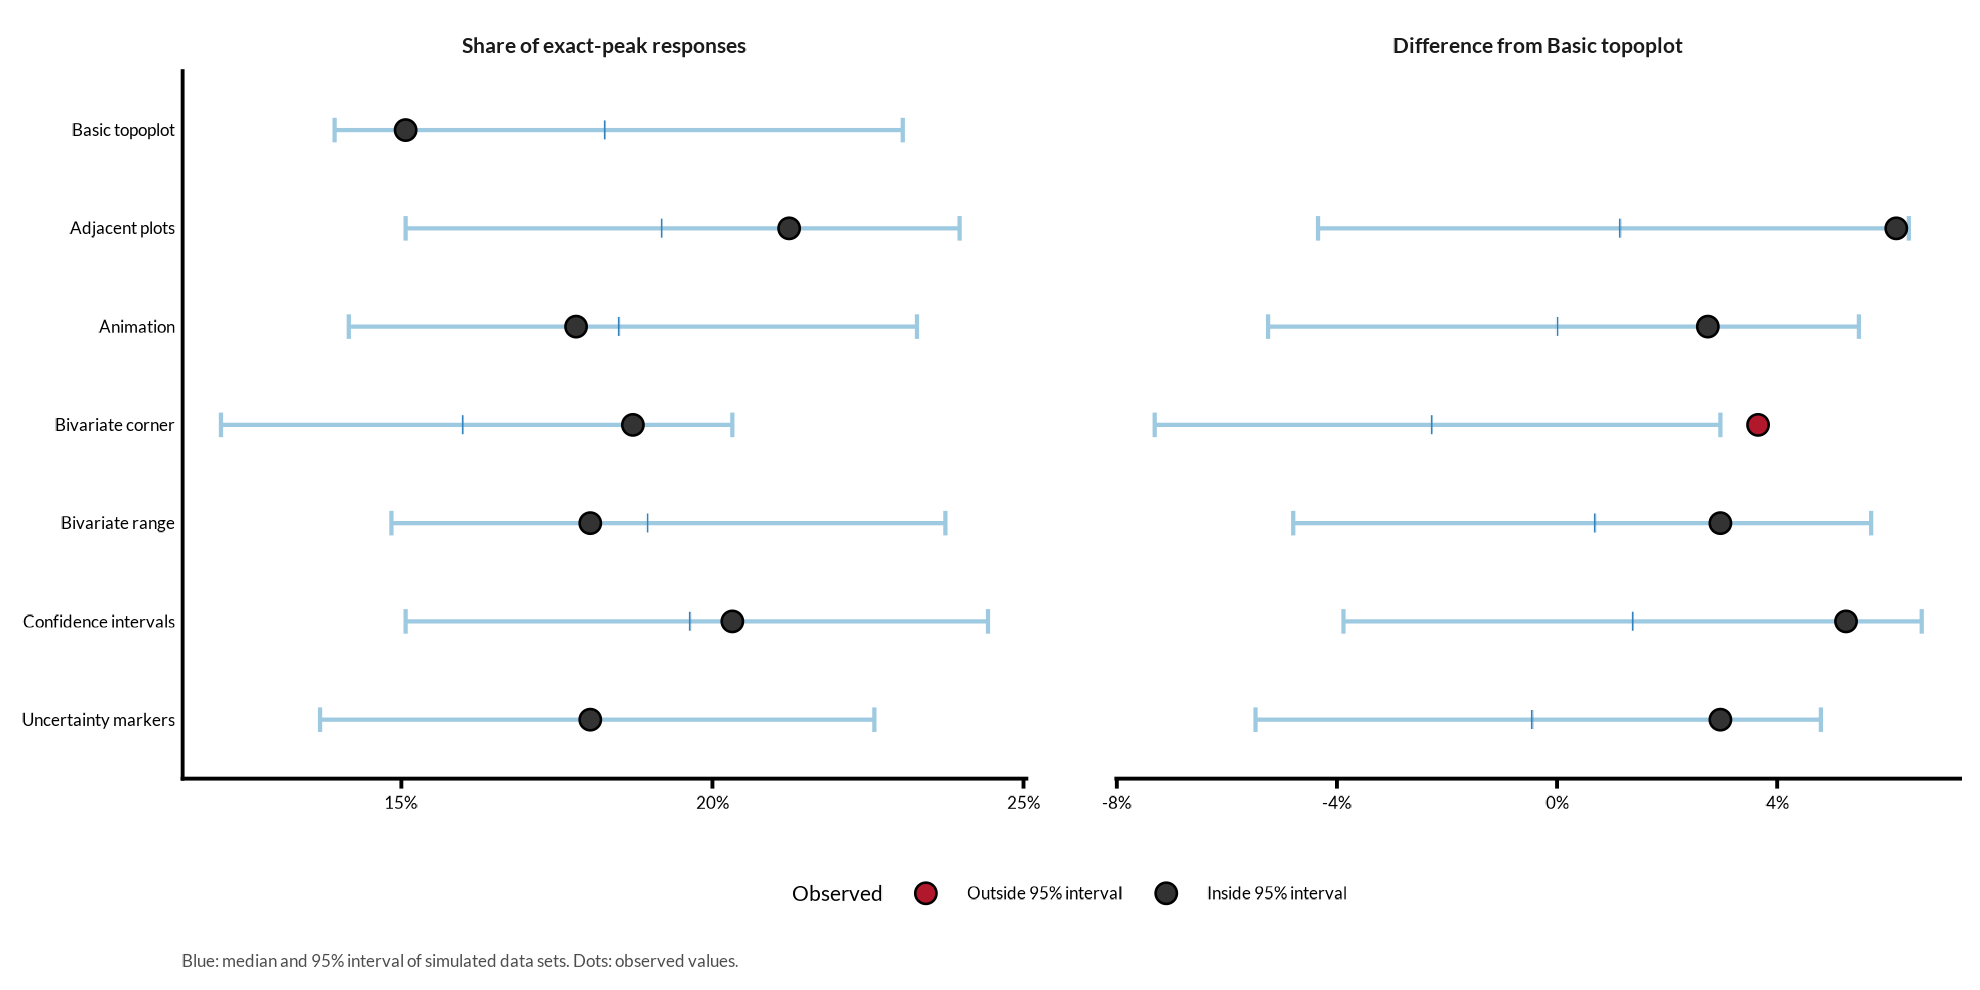
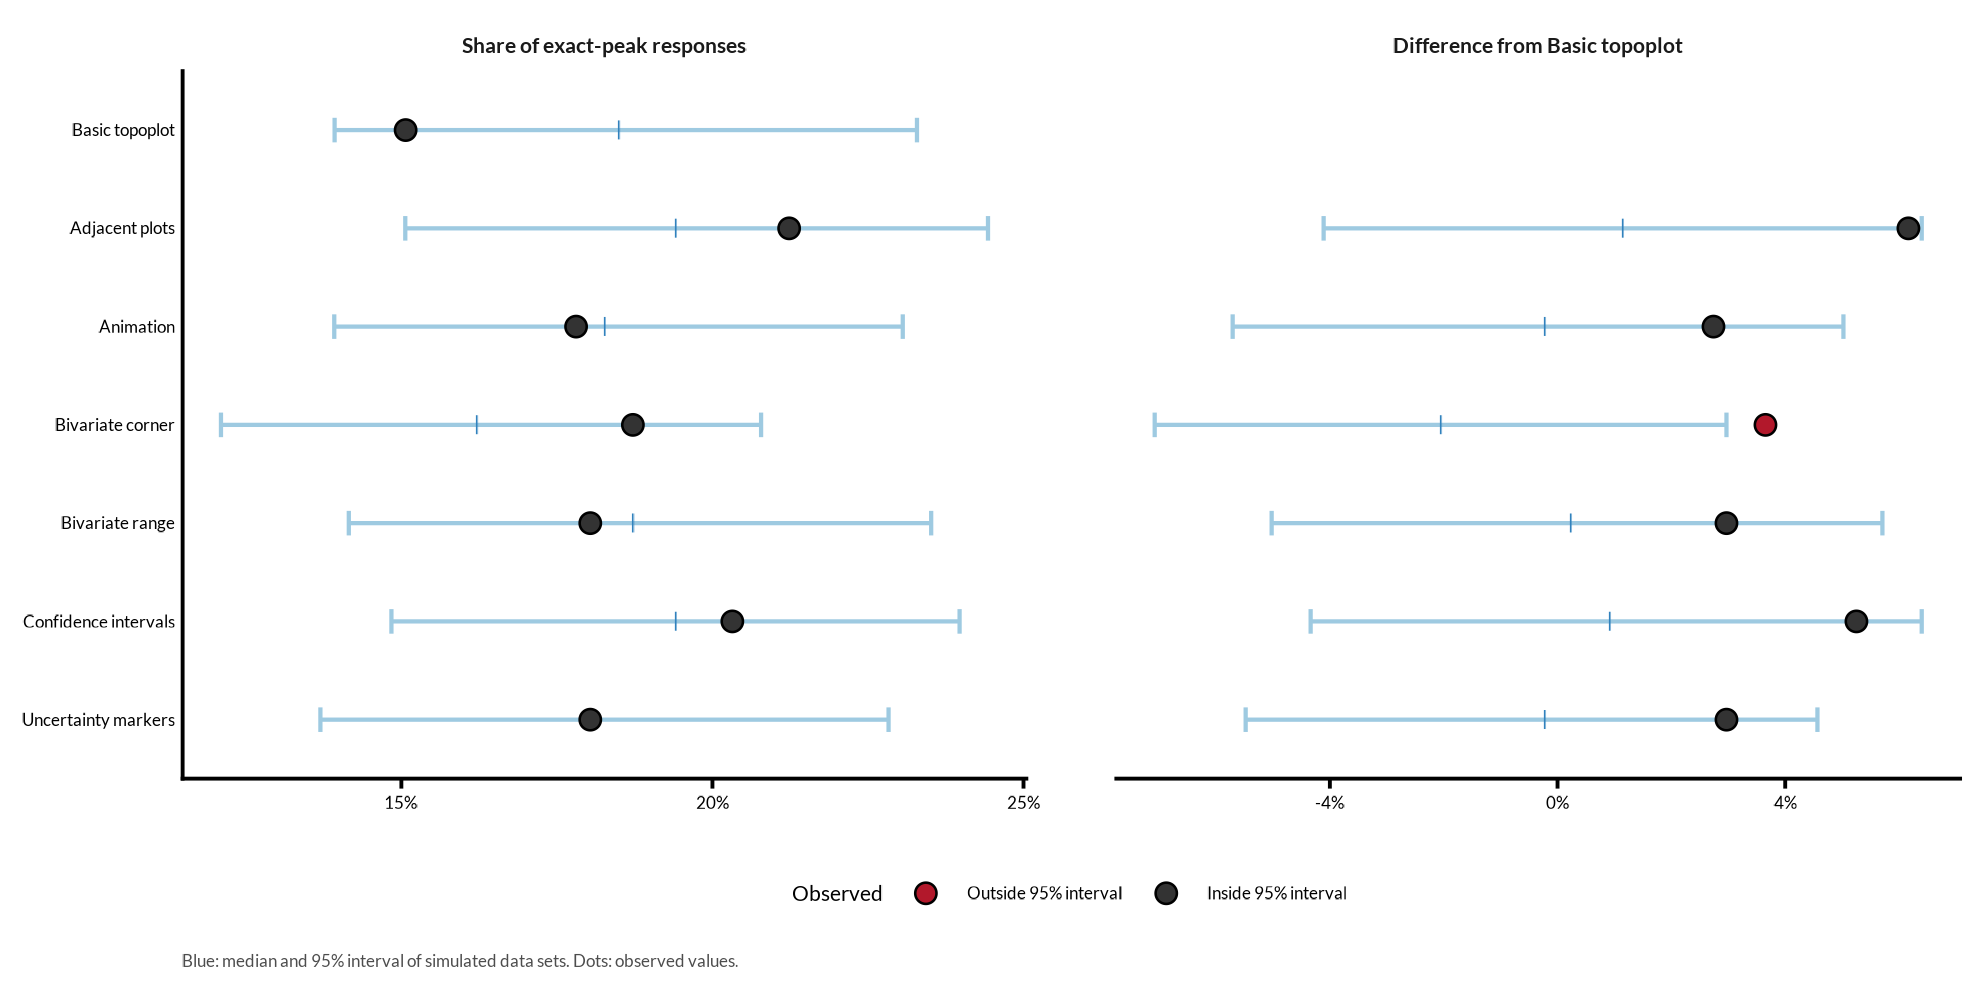
Task 2 models: add image-level intercept (1 | stimulus:vistype)
Each stimulus x visualization is a separate image (210 images, ~15 responses
each); without an image intercept those responses were treated as independent.
The term is added to the primary ordered-beta model, the two-part sensitivity
models and the hit / near-hit models. It is strongly supported (AIC 1178 -> 1107
for the primary model), point estimates barely change, and the overall
visualization test is no longer significant (chi2(6) = 8.0, p = .23).

Audit: U2 folded into A2 (Addressed); remaining: Task 1 analogue,
generalization statement, manuscript wording.

diff --git a/reports/addressed.md b/reports/addressed.md
@@ -22,8 +22,9 @@ subtitle: "Issues where work has been done but something remains"
 - Task 2 has a posterior predictive check of exact-peak (score = 1) responses.
 - Task 2 has a two-part sensitivity model: a logistic model for finding the strongest
   region and a beta model for the remaining trials.
-- These show that Adjacent plots and Confidence intervals increase exact-peak hits.
-  The ordered-beta contrast does not detect this.
+- These show that Adjacent plots increase exact-peak hits (p = .006 with the image
+  intercept); Confidence intervals do so only marginally (p = .046). The ordered-beta
+  contrast does not detect this.
 - The fitted Task 1 and Task 2 models are checked for convergence and a
   positive-definite Hessian.
 
@@ -45,9 +46,24 @@ subtitle: "Issues where work has been done but something remains"
 **Done.**
 
 - The primary model is
-  `score ~ vistype + pattern + position_c + (1 | ID) + (1 | stimulus)`, adjusting for
-  ERP pattern and presentation position, with crossed participant and stimulus
-  intercepts.
+  `score ~ vistype + pattern + position_c + (1 | ID) + (1 | stimulus) + (1 | stimulus:vistype)`,
+  adjusting for ERP pattern and presentation position, with crossed participant and
+  stimulus intercepts and an intercept for each of the 210 images (formerly U2). The
+  same structure is used in the two-part sensitivity model and in the hit / near-hit
+  models on the Hit or miss page.
+- Evidence for the image intercept (N = 146):
+
+  | Model | AIC without → with | Image SD | Overall visualization LRT, without → with |
+  |---|---|---|---|
+  | Score (ordered beta) | 1178 → 1107 | 0.27 | χ²(6) = 23.1, p = .0008 → χ²(6) = 8.0, p = .23 |
+  | Exact hit (logistic) | 2497 → 2448 | 0.82 | χ²(6) = 14.6, p = .023 → χ²(6) = 8.6, p = .20 |
+  | Hit or near hit (logistic) | 3347 → 3161 | 1.12 | χ²(6) = 19.9, p = .003 → χ²(6) = 9.0, p = .17 |
+
+  Point estimates barely move; standard errors grow 1.5–2.2×. Contrasts with Basic
+  that remain at p < .05 (unadjusted): exact hit, Adjacent plots (p = .006) and
+  Confidence intervals (p = .046); hit or near hit, Uncertainty markers (p = .029)
+  and Bivariate range (p = .032). The Bivariate corner score deficit does not
+  (p = .005 → .093); it is concentrated in three images (MMN_30, N170_16, N170_27).
 - The page checks that no responses are lost and that each stimulus maps to one
   pattern.
 - Participant-specific slopes were tested and their omission is explained on the page:
@@ -58,8 +74,11 @@ subtitle: "Issues where work has been done but something remains"
 
 **Remaining.**
 
-- The image-level intercept changes the inference ([U2](index.md#u2)).
+- Check the analogous term in Task 1 (target stimulus × visualization); Task 1
+  already has `(1 | wrong_image)`.
 - State that generalization to new stimuli rests on 30 sampled stimuli.
+- Manuscript: describe the visualization effects as weak overall; no omnibus test
+  is significant once image-level variation is modelled.
 
 ## A3. Feedback codes are linked by row position {#a3}
 

diff --git a/reports/index.md b/reports/index.md
@@ -6,16 +6,17 @@ subtitle: "Open issues in the analysis (N = 146), most severe first"
 ::: {.callout-warning}
 ## The analysis is not yet ready for manuscript interpretation
 
-U2–U5 change results or how they must be described. Fix them first, in this order:
+U3–U5 change results or how they must be described. Fix them first, in this order:
 
-1. Settle the Task 2 random-effects structure (U2).
-2. Correct the labels and timing of the rating items (U3, U4).
-3. Regenerate the remaining result sentences from the estimates (U5).
+1. Correct the labels and timing of the rating items (U3, U4).
+2. Regenerate the remaining result sentences from the estimates (U5).
+
+The Task 2 image-level intercept (formerly U2) is now in the models; see
+[A2](addressed.md#a2).
 :::
 
 | | Issue | Area |
 |--|------------------|----|
-| [High]{.badge .sev-high} | [U2. Task 2 ignores image-level variation](#u2) | Task 2 |
 | [High]{.badge .sev-high} | [U3. A303 measures likelihood of use, not helpfulness](#u3) | Ratings |
 | [High]{.badge .sev-high} | [U4. A301 was asked after Task 1 only](#u4) | Ratings |
 | [High]{.badge .sev-high} | [U5. Task 1 text overstates weak or contradicted effects](#u5) | Task 1 |
@@ -31,36 +32,6 @@ U2–U5 change results or how they must be described. Fix them first, in this or
 | [Low]{.badge .sev-low} | [U15. Stale hard-coded text and suspicious items](#u15) | Task 1, Task 2 |
 
 : {.findings-table}
-
-## U2. Task 2 ignores image-level variation {#u2}
-
-::: {.finding-meta .sev-high}
-**Severity:** High · **Area:** Task 2 detection-score model
-:::
-
-**Problem.** Each stimulus × visualization combination is a separate image (210
-images, about 14.6 responses each). The primary model has participant and stimulus
-intercepts but no image intercept, so responses to the same image are treated as
-independent.
-
-**Evidence.**
-
-| | Primary model | + `(1 \| stimulus:vistype)` |
-|---|---|---|
-| AIC | 1178.0 | 1106.9 |
-| Image-intercept SD | — | 0.27 (LRT χ²(1) = 73.1, p < 10⁻¹⁶) |
-| Overall visualization LRT | χ²(6) = 23.1, p = .0008 | χ²(6) = 8.0, p = .24 |
-| Bivariate corner vs Basic (logit) | −0.167, p = .005 | −0.153, p = .093 |
-
-The point estimates barely move, but the uncertainty grows substantially. The
-Bivariate corner deficit is concentrated in three images (MMN_30, N170_16, N170_27);
-it scores below Basic for only 13 of 30 stimuli.
-
-**Fix.**
-
-- Include the image intercept in the primary model, or report it as the main
-  sensitivity analysis and soften the pairwise claims.
-- Check the analogous term (target stimulus × visualization) in Task 1.
 
 ## U3. A303 measures likelihood of use, not helpfulness {#u3}
 
